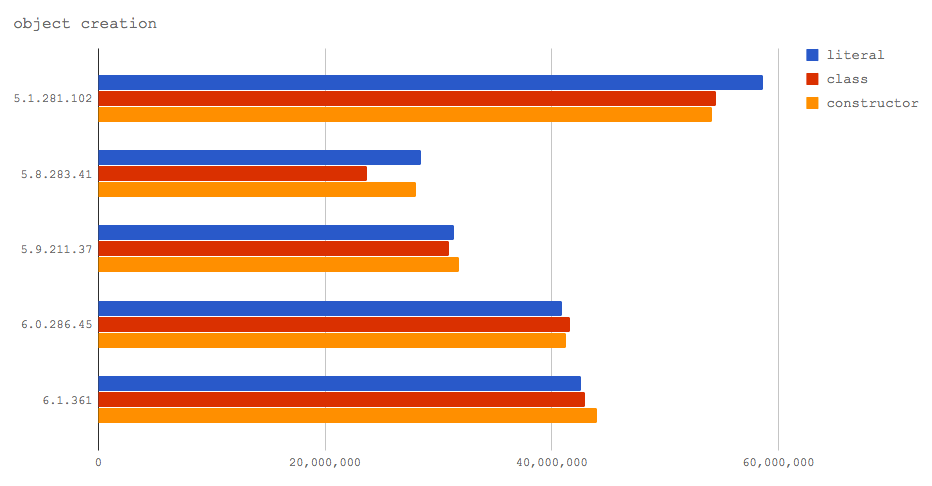
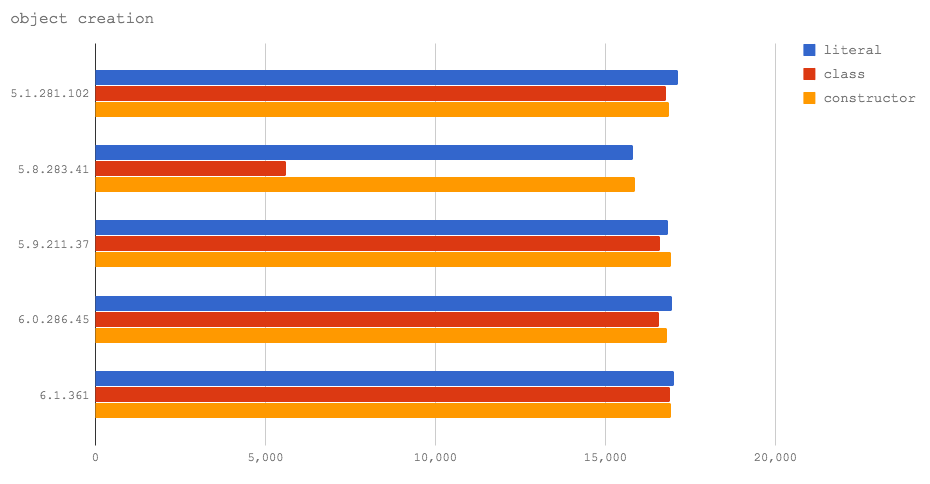
Updated with latest feedback.

diff --git a/bench/object-creation.js b/bench/object-creation.js
@@ -4,6 +4,11 @@ var benchmark = require('benchmark')
 var suite = new benchmark.Suite()
 var runs = 0
 
+// the for loop is needed otherwise V8
+// can optimize the allocation of the object
+// away
+var max = 10000
+
 class MyClass {
   constructor (x) {
     this.x = x
@@ -14,33 +19,33 @@ function MyCtor (x) {
   this.x = x
 }
 
-var obj
-
 suite.add('noop', function noop () {})
 
 suite.add('literal', function literalObj () {
-  obj = { x: 1 }
+  var obj = null
+
+  for (var i = 0; i < max; i++) {
+    obj = { x: 1 }
+  }
+
+  return obj
 })
 
 suite.add('class', function classObj () {
-  obj = new MyClass(1)
+  var obj = null
+  for (var i = 0; i < max; i++) {
+    obj = new MyClass(1)
+  }
+  return obj
 })
 
 suite.add('constructor', function constructorObj () {
-  obj = new MyCtor(1)
+  var obj = null
+  for (var i = 0; i < max; i++) {
+    obj = new MyCtor(1)
+  }
+  return obj
 })
-
-var propertiesObject = { x: { value: 1, enumerable: true, writable: true, configurable: true} }
-suite.add('create (propertiesObject)', function createObjWithPropertiesObject () {
-  obj = Object.create(Object.prototype, propertiesObject)
-})
-
-
-suite.add('create (prop assign)', function createObjAndAssignProp () {
-  obj = Object.create(Object.prototype)
-  obj.x = 1
-})
-
 
 suite.on('cycle', () => runs = 0)
 

diff --git a/readme.md b/readme.md
@@ -373,9 +373,9 @@ So there may be some more work to do when it comes to iterating over objects.
 Also, for those who've used `for`-`in` for its performance benefits it's going to be a painful
 moment when we lose a large chunk of speed with no alternative approach available.
 
-### Creating objects
+### Object allocation
 
-We create objects *all the time* so this is a great area to measure.
+We allocate objects *all the time* so this is a great area to measure.
 
 We're going to look at three cases:
 
@@ -387,20 +387,18 @@ We're going to look at three cases:
 
 ![](graphs/object-creation-bar.png)
 
-We can see that creating new object had a performance regression in Node
-8.2 (V8 5.8), and it will recover in future Node.js versions with V8 6.0 (we hope Node 8.3)
-and 6.1.
-
-In Node 6.11 creating object literals was faster, while in future
-Node.js releases the performance of creating object will be identical in
-all version of Node.js.
+Object allocation have the same cost in all the test V8 versions, apart
+from classes in Node 8.2 (V8 5.8), which are slower than the rest. This
+is due to the mixed Crankshaft/Turbofan nature of V8 5.8, and it will be
+resolved in Node 8.3 with V8 6.0.
 
 _Edit: Jakob Kummerow noted in [http://disq.us/p/1kvomfk](http://disq.us/p/1kvomfk) that Turbofan
-can optimize away the object allocation in this specific microbenchmark.
-The creating object benchmark has been split into creating object and
-creating hardocoded objects._
+can optimize away the object allocation in this specific microbenchmark,
+leading to incorrect results.
+The creating object benchmark has been split into creating objects and
+creating objects that does not "escape"._
 
-### Creating hardcoded objects
+#### Creating objects that does not "escape"
 
 An extremely common pattern in JS is to create an "option object" to
 specify some options to a function call, e.g.:
@@ -415,13 +413,22 @@ const client = net.createConnection(opts, () => {
 });
 ```
 
+Moreover these objects can be used just to call another function with
+custom data, and then completely discarded. When an object exits the
+context (call stack) that has defined it, we say it "escaped". This benchmark is
+about objects that do not escape, and are used within a single call
+stack and then discarded.
+
+**Code:** <https://github.com/davidmarkclements/v8-perf/blob/master/bench/object-creation-inlining.js>
+
 Let's see the performance of hardcoded objects:
 
 ![](graphs/hardcoded-object-creation-bar.png)
 
-Then in V8 6.0 (hopefully Node 8.3, or otherwise 8.4) and 6.1 (Node 9) V8 can optimize the Object creation away,
-if the object is fully hardcoded, avoiding completely the object allocation itself! The benchmarks report fantastic results,
-over 5000 million ops!
+Then in V8 6.0 (Node 8.3) and 6.1 (Node 9) V8 can optimize the Object creation away
+if the object does not escape, avoiding completely the cost of object allocation itself!
+The benchmarks report fantastic results, over 500 million ops, mainly because it is actually
+doing nothing.
 
 That's incredible.
 
